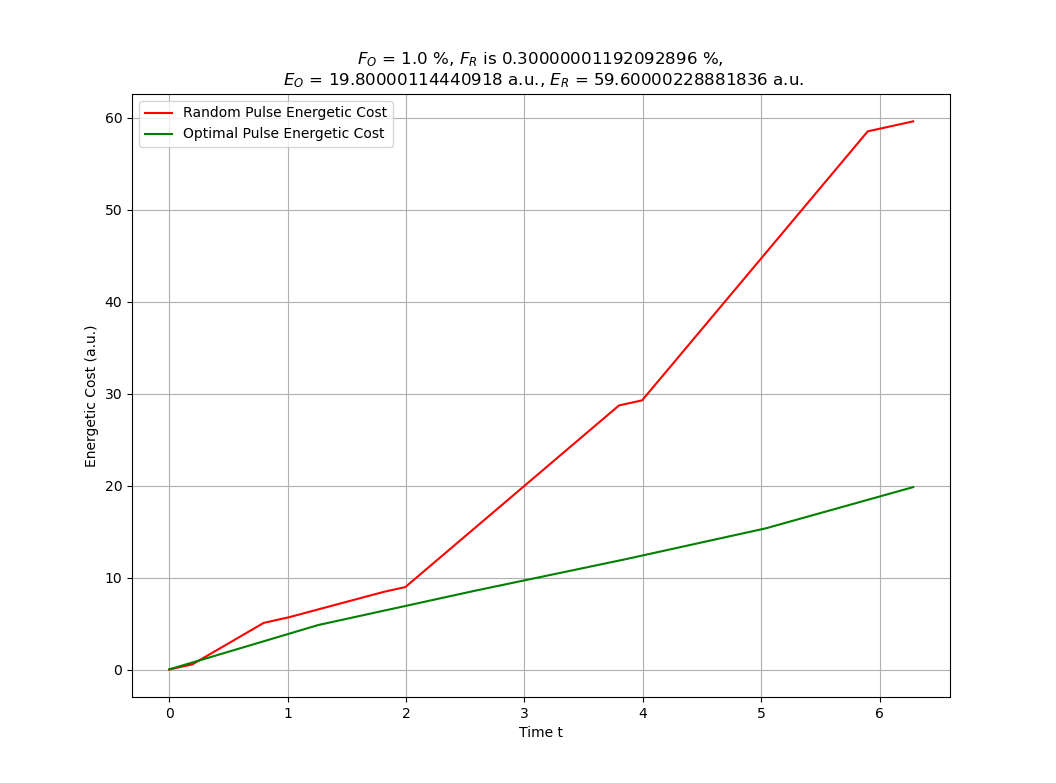
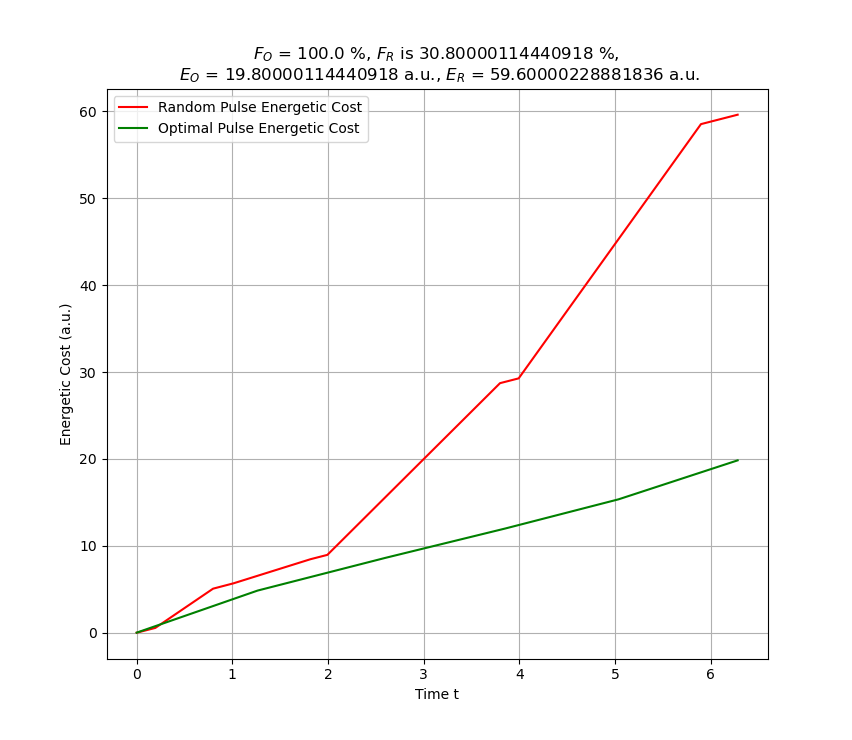
Plots

diff --git a/EUQOC_PoC_Plotting.py b/EUQOC_PoC_Plotting.py
@@ -9,7 +9,7 @@ print("Random Pulse Fidelity is:, ", arb_profit_random, "Optimal Pulse Fidelity 
 
 plt.plot(timesteps, List_Random, label = "Random Pulse Energetic Cost", color = "red")
 plt.plot(timesteps, List_Optimal, label = "Optimal Pulse Energetic Cost", color = "green")
-plt.title(f"$F_O$ = {round(arb_profit_optimal, ndigits = 1)} %, $F_R$ is {round(arb_profit_random, ndigits = 1)} %, \n $E_O$ = {round(Energetic_Cost_Optimal, ndigits = 1)} a.u., $E_R$ = {round(Energetic_Cost_Random, ndigits = 1)} a.u.")
+plt.title(f"$F_O$ = {round(arb_profit_optimal*100, ndigits = 1)} %, $F_R$ is {round(arb_profit_random*100, ndigits = 1)} %, \n $E_O$ = {round(Energetic_Cost_Optimal, ndigits = 1)} a.u., $E_R$ = {round(Energetic_Cost_Random, ndigits = 1)} a.u.")
 plt.xlabel("Time t")
 plt.ylabel("Energetic Cost (a.u.)")
 plt.legend()
